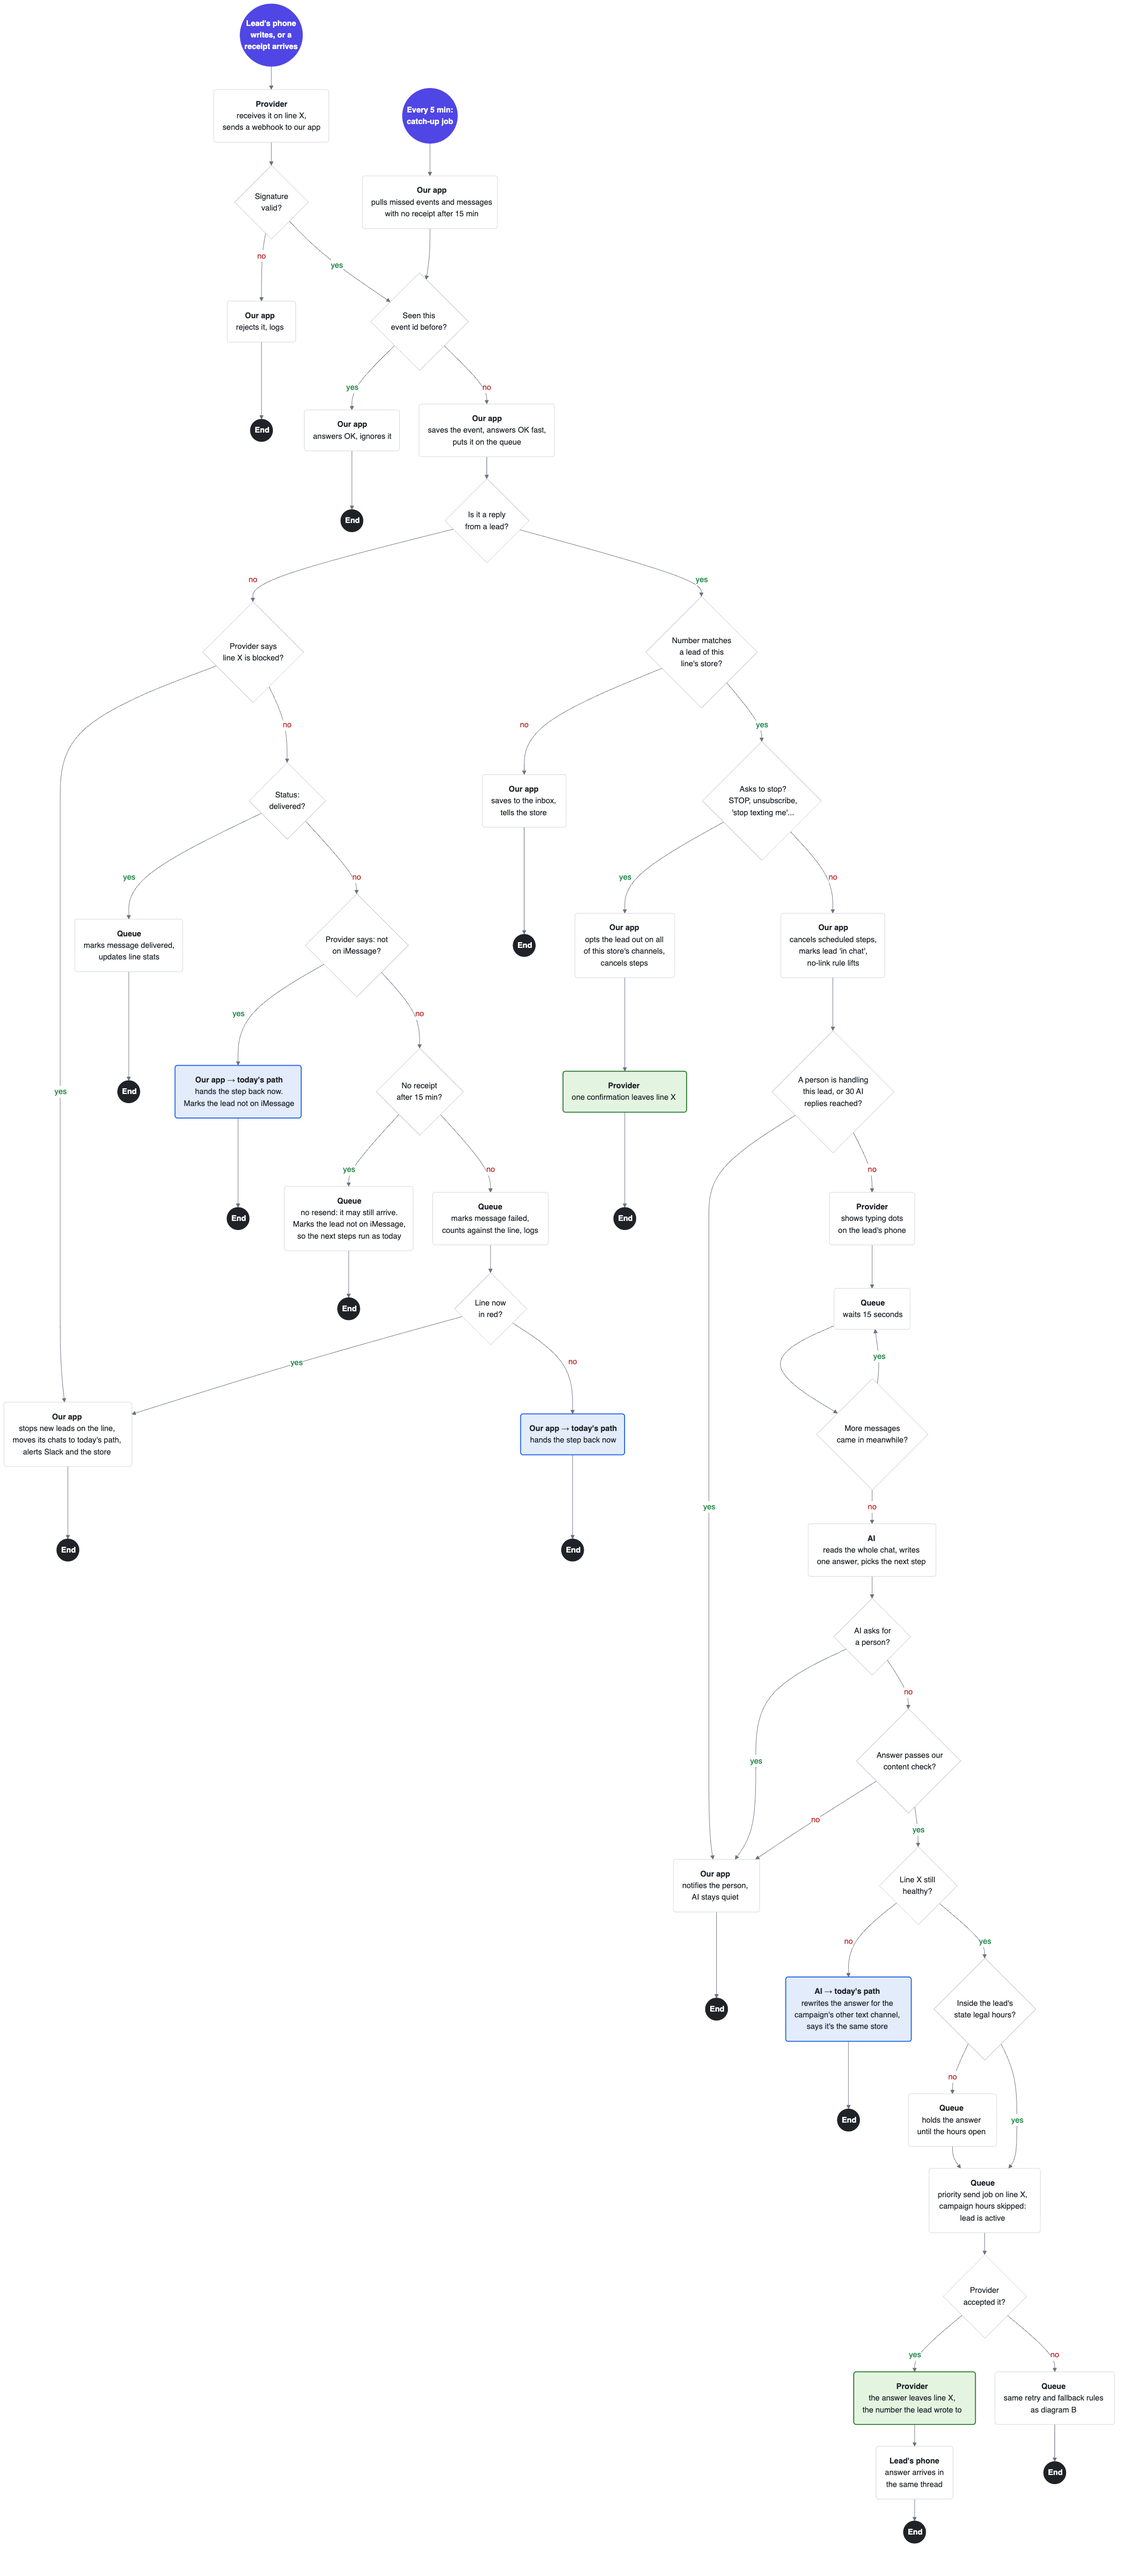
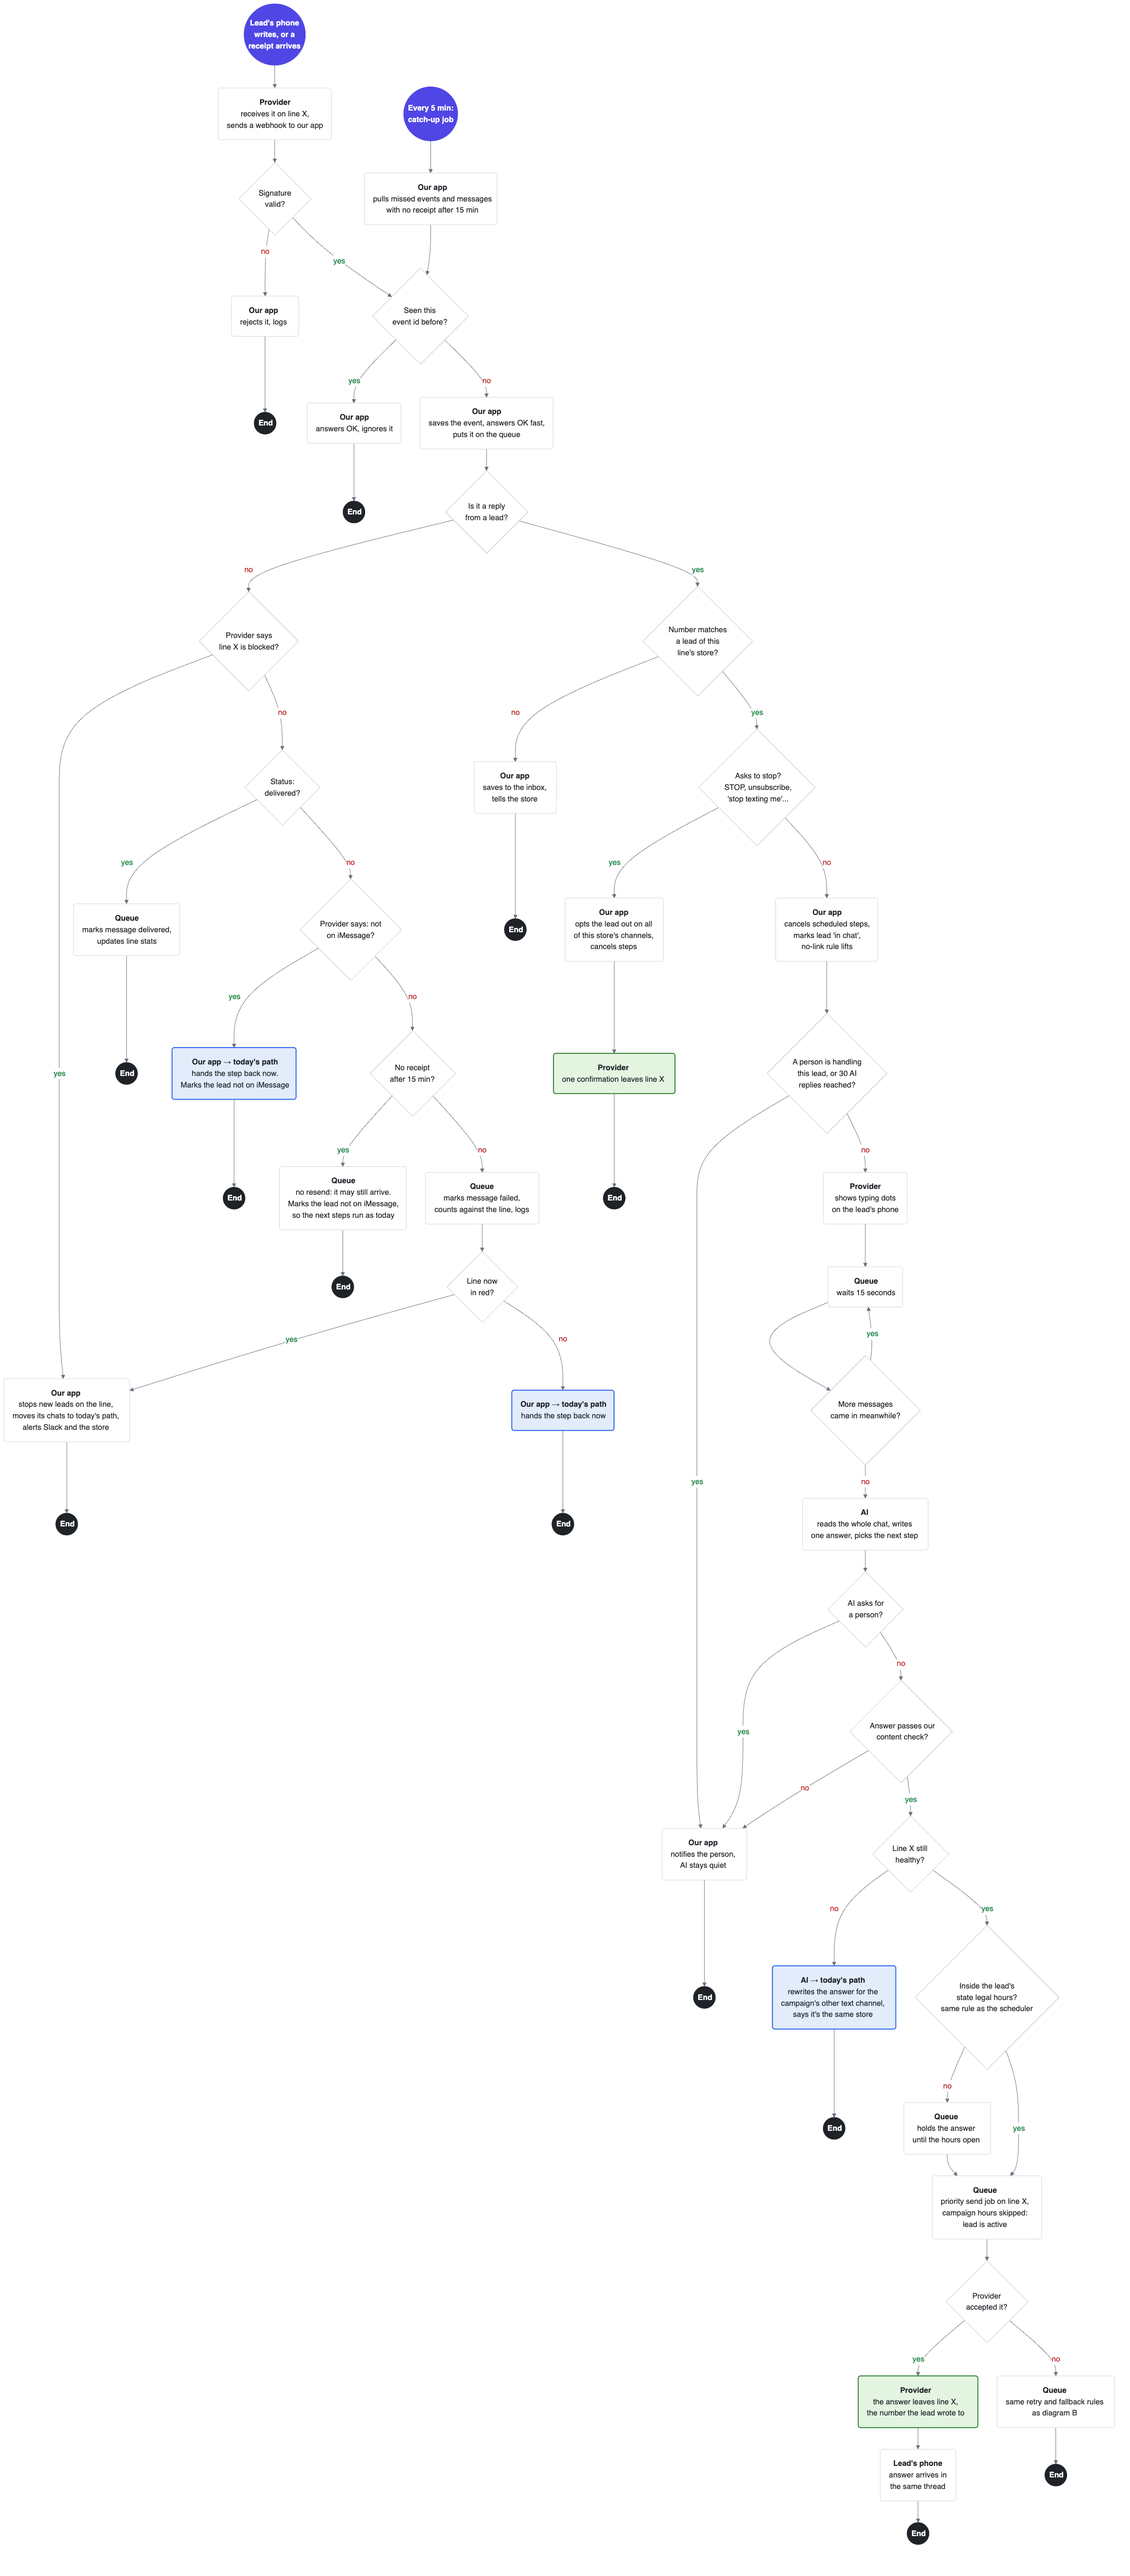
Legal hours: the scheduler's job in B, C checks its own live replies
- B no longer checks hours: the scheduler fires the step inside
  sending hours, which sit inside state law.
- C keeps its check, labelled as the same rule as the scheduler,
  because live replies skip the scheduler.
- Appendix: who checks, and the no-code fallback (pilot keeps the
  default 9-17 Mon-Fri if the scheduler doesn't check state law).

diff --git a/diagrams.md b/diagrams.md
@@ -16,7 +16,8 @@ Back to the plan: [README.md](README.md)
 - **Line X** is the store's iMessage line: one per store in v1, like its one SMS number. Every iMessage to the store's leads comes from it.
 - **Which steps:** iMessage is a fifth channel. A text step is an SMS step or an iMessage step. A campaign can add iMessage steps, each with a fallback the campaign sets (SMS or a call). For a lead on iMessage, SMS steps also go from line X. One number per lead: after a hand-back, the lead's next steps run as today.
 - **Today's message:** what the campaign sends without iMessage. For an SMS step, the AI writes it as today. For an iMessage step, it's the message for its fallback (nothing to write for a call). The AI also writes an iMessage version.
-- **What B leaves to today's system:** sending hours (the scheduler fires the step inside them), opt-out and frequency caps (today's checks). B adds only state legal hours, the iMessage on-switch and line X's limits.
+- **What B leaves to today's system:** sending hours and state legal hours (the scheduler fires the step inside them), opt-out and frequency caps (today's checks). B adds only the iMessage on-switch and line X's limits.
+- **Legal hours in C:** live replies skip the scheduler, so C checks legal hours itself, with the same rule.
 - **Checks in two places:** the full iMessage check runs before writing. At send time, today's checks and the on-switch run again, so nothing stale goes out. If the check, or the lookup, fails, the lead stays on today's path.
 - **When iMessage fails:** if we know it didn't arrive (refused, failed, not on iMessage), today's message goes at once, the campaign's way. If we don't know (no receipt in 15 min), we don't resend, so the lead never gets both. The lead is marked, and the next steps run as today.
 - **The call after a text:** their default sequence calls about 3 minutes after a text step. That stays. If the lead replies first, the reply cancels scheduled steps, including that call (diagram C).
@@ -34,16 +35,14 @@ Back to the plan: [README.md](README.md)
 ```mermaid
 %%{init: {"theme": "base", "themeVariables": {"fontFamily": "Helvetica, Arial, sans-serif", "primaryColor": "#ffffff", "primaryBorderColor": "#d0d4db", "primaryTextColor": "#1f2328", "lineColor": "#6b7280", "edgeLabelBackground": "#ffffff"}, "themeCSS": "foreignObject { overflow: visible; } .nodeLabel { white-space: nowrap; }", "flowchart": {"curve": "basis", "nodeSpacing": 40, "rankSpacing": 45, "padding": 18}}}%%
 flowchart TD
-    S(("<b>Text step<br/>is due</b>")) --> A1("<b>Scheduler → Queue</b><br/>picks up the job. Ready: today's message,<br/>and an iMessage version if the lead<br/>passed the iMessage check")
+    S(("<b>Text step<br/>is due</b>")) --> A1("<b>Scheduler → Queue</b><br/>fires the step inside sending hours<br/>(inside state law), the queue picks up the job.<br/>Ready: today's message, and an iMessage<br/>version if the lead passed the iMessage check")
     A1 --> Q0{"Today's checks pass?<br/>not sent yet, no reply, purchase<br/>or opt-out since it was written,<br/>inside the frequency cap"}
     Q0 -- no --> X3("<b>Scheduler</b><br/>drops or holds the step,<br/>as today, logs why") --> E0(("<b>End</b>"))
     Q0 -- yes --> QV{"iMessage version<br/>ready?"}
     QV -- no --> SMS0("<b>Scheduler → today's path</b><br/>runs the step as today,<br/>from the store's own number"):::sms --> E1(("<b>End</b>"))
     QV -- yes --> QI{"iMessage still on?<br/>global switch, store, campaign"}
     QI -- no --> SMS1("<b>Our app → today's path</b><br/>hands the step back to the<br/>campaign: it runs as if<br/>iMessage were off"):::sms --> E2(("<b>End</b>"))
-    QI -- yes --> QL{"Inside the lead's<br/>state legal hours?<br/>same rule as SMS"}
-    QL -- no --> R1("<b>Queue</b><br/>moves the step to the next window") --> E3(("<b>End</b>"))
-    QL -- yes --> Q7{"Line X<br/>healthy?"}
+    QI -- yes --> Q7{"Line X<br/>healthy?"}
     Q7 -- no --> SMS2("<b>Our app → today's path</b><br/>hands the step back now,<br/>logs why"):::sms --> E4(("<b>End</b>"))
     Q7 -- yes --> Q6{"Chat with this lead<br/>already on line X?"}
     Q6 -- yes --> SEND("<b>Our app → Provider API</b><br/>sends the iMessage version<br/>from line X")
@@ -68,11 +67,11 @@ flowchart TD
     classDef out fill:#e3f5e1,stroke:#2e7d32,stroke-width:2px,color:#1f2328
     classDef sms fill:#e2ecfb,stroke:#2563eb,stroke-width:2px,color:#1f2328
     class S start
-    class E0,E1,E2,E3,E4,E5,E6,E7,E8 finish
-    class Q0,QV,QI,QL,Q7,Q6,Q8,Q13,Q14,Q15 decision
-    class A1,X3,R1,SEND,OK2,PH,R4 action
-    linkStyle 4,7,10,13,16,17,19,23,28,31 color:#15803d,stroke:#6b7280
-    linkStyle 2,5,8,11,14,18,20,27,29,33 color:#b91c1c,stroke:#6b7280
+    class E0,E1,E2,E4,E5,E6,E7,E8 finish
+    class Q0,QV,QI,Q7,Q6,Q8,Q13,Q14,Q15 decision
+    class A1,X3,SEND,OK2,PH,R4 action
+    linkStyle 4,7,10,13,14,16,20,25,28 color:#15803d,stroke:#6b7280
+    linkStyle 2,5,8,11,15,17,24,26,30 color:#b91c1c,stroke:#6b7280
 ```
 
 🟣 start (what triggers it) · ⚫ end, one per branch · ◇ a question, with yes and no arrows · ▢ an action, **bold** = who does it · 🟩 an iMessage leaves line X · 🟦 today's path: the step goes back to the campaign and runs as if iMessage were off
@@ -124,7 +123,7 @@ flowchart TD
     QC -- no --> R4
     QC -- yes --> Q12{"Line X still<br/>healthy?"}
     Q12 -- no --> R6("<b>AI → today's path</b><br/>rewrites the answer for the<br/>campaign's other text channel,<br/>says it's the same store"):::sms --> E10(("<b>End</b>"))
-    Q12 -- yes --> QL{"Inside the lead's<br/>state legal hours?"}
+    Q12 -- yes --> QL{"Inside the lead's<br/>state legal hours?<br/>same rule as the scheduler"}
     QL -- no --> R9("<b>Queue</b><br/>holds the answer<br/>until the hours open") --> R7
     QL -- yes --> R7("<b>Queue</b><br/>priority send job on line X,<br/>campaign hours skipped:<br/>lead is active")
     R7 --> Q13{"Provider<br/>accepted it?"}

diff --git a/appendix.md b/appendix.md
@@ -120,7 +120,8 @@ About 4 in 10 US phones in use are Android (StatCounter, mid-2026: iOS 58–61%,
 
 - **Treat iMessage exactly like SMS.** Courts treat texts as "calls" under the TCPA, and there is no ruling that iMessage is different.
 - **Which state:** the shipping address if we have it, else the area code. If they differ, the stricter rule applies.
-- **Quiet hours:** 21 states set hours for sales texts. Florida, Maryland, Oklahoma, Washington and others allow 8am–8pm local time. Texas allows 9am–9pm, and from noon on Sundays. Postscript reads Florida's law as covering a brand's replies too. So "reply right away" stays inside state hours (diagrams B and C).
+- **Quiet hours:** 21 states set hours for sales texts. Florida, Maryland, Oklahoma, Washington and others allow 8am–8pm local time. Texas allows 9am–9pm, and from noon on Sundays. Postscript reads Florida's law as covering a brand's replies too. So "reply right away" stays inside state hours (the scheduler for B, diagram C for live replies).
+- **Who checks:** the scheduler fires steps only inside sending hours, and those must sit inside state law. The default 9:00–17:00, Mon–Fri, in the lead's timezone fits every rule above. If the scheduler doesn't check state law itself, pilot campaigns keep the default hours, and our admins check this when they turn iMessage on. Live replies skip the scheduler, so diagram C checks legal hours itself, with the same rule.
 - **Frequency:** Florida, Maryland and Oklahoma allow at most 3 messages per 24 hours on the same subject. A chat of up to 30 replies may break that. The pilot leaves these three states out until legal decides.
 - **Opt-out (FCC, since 11 April 2025):** an opt-out sent by any reasonable means must be honoured within 10 business days. The "revoke all" part is delayed to 31 January 2027. We opt out at once and on all channels, so we already meet it.
 - **Texas SB 140 (since 1 September 2025):** marketing texts now fall under the Texas solicitation law. There is a registration duty, with exemptions for current or former customers, and a private right of action reported at $500–$10,000 per violation. A cart abandoner who never bought may not count as a former customer. Legal check needed.
